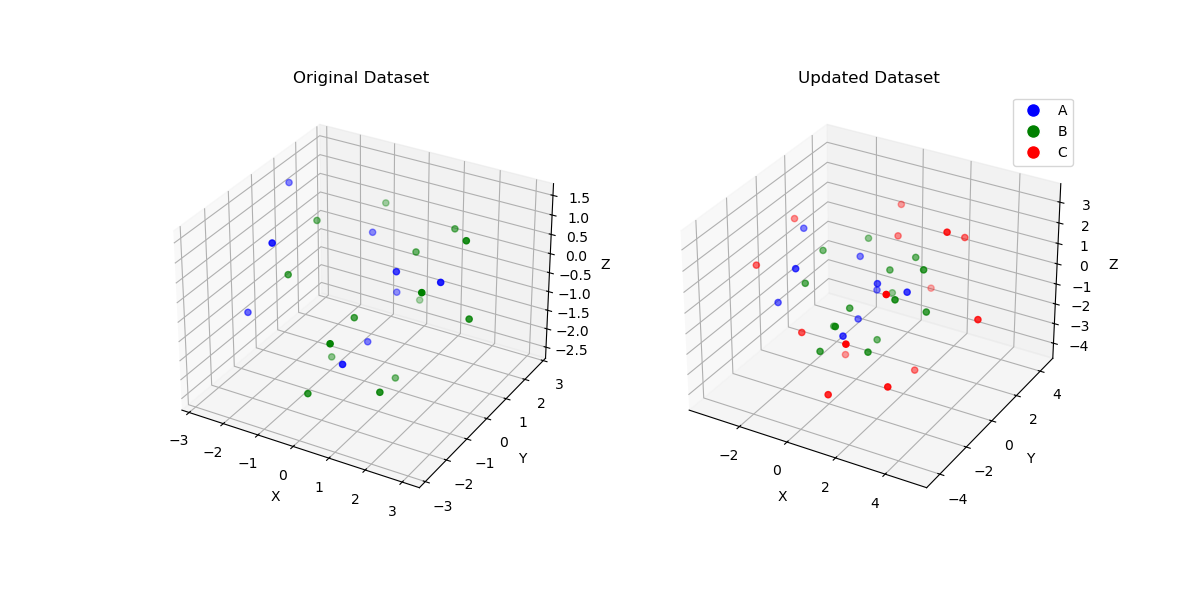
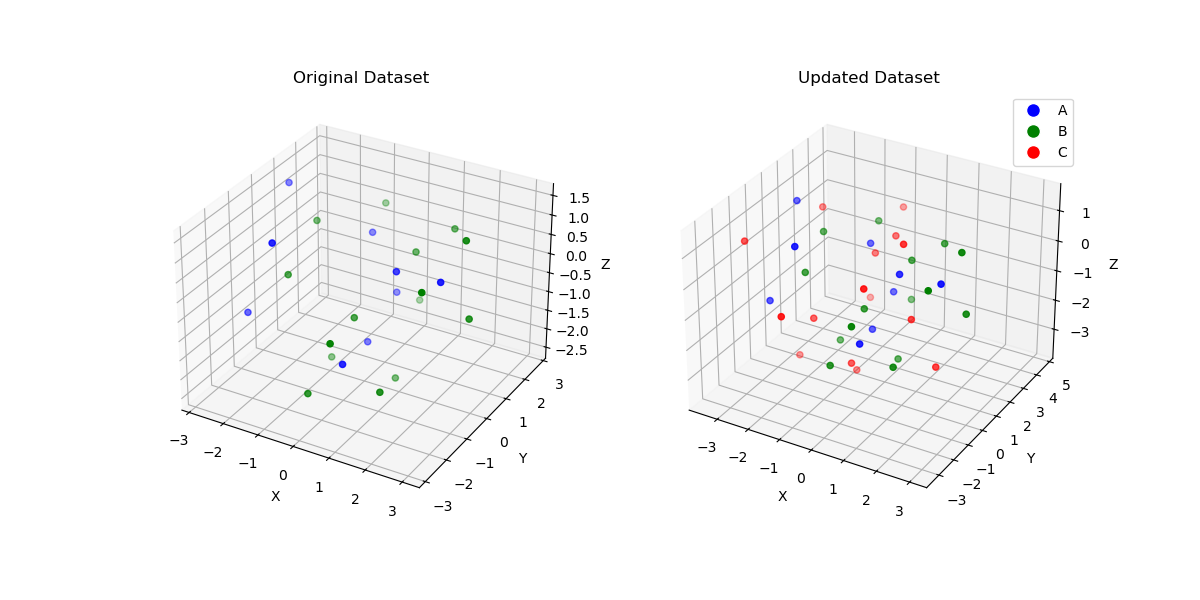
reverted weight function back to original polynomial decay

diff --git a/script.py b/script.py
@@ -1,3 +1,4 @@
+
 import numpy as np
 import pandas as pd
 from sklearn.decomposition import PCA
@@ -8,7 +9,43 @@ import matplotlib.pyplot as plt
 # Configure logging
 logging.basicConfig(level=logging.INFO, format='%(asctime)s - %(levelname)s - %(message)s')
 
-def add_offset_points(df, offset_magnitude, point_cols=['x', 'y', 'z'], initial_label='B', offset_label='C'):
+
+def cutoff_function(alpha, steps, n_degree=3):
+    """
+    Generates a cutoff function that smoothly transitions from `alpha` to `0` in `steps` using
+    a polynomial of degree `n_degree`.
+
+    Parameters:
+    ----------
+    alpha : float
+        The starting value of the function.
+    steps : int
+        The number of steps (or samples) over which the transition occurs.
+    n_degree : int, optional (default=3)
+        The degree of the polynomial used for the cutoff (e.g., 1 for linear, 2 for quadratic).
+
+    Returns:
+    -------
+    np.ndarray
+        A 1D array of `steps` values representing the cutoff function.
+
+    Raises:
+    ------
+    ValueError
+        If `steps` is less than or equal to 0, or if `alpha` is negative.
+    """
+    if steps <= 0:
+        raise ValueError("Parameter 'steps' must be greater than 0.")
+    if alpha < 0:
+        raise ValueError("Parameter 'alpha' must be non-negative.")
+    
+    # Create a linear space from 0 to 1
+    x = np.linspace(0, 1, steps)
+    # Compute the cutoff values using the polynomial decay formula
+    return alpha * (1 - x**n_degree)
+
+
+def add_offset_points(df, offset_magnitude, point_cols=['x', 'y', 'z'], initial_label='B', offset_label='C', alpha=0.5):
     """
     Adds offset points to a DataFrame based on points with a specific initial label, creating new points 
     at a fixed distance and in a direction pointing "outward" from the point cloud.
@@ -30,6 +67,9 @@ def add_offset_points(df, offset_magnitude, point_cols=['x', 'y', 'z'], initial_
 
     offset_label : str, optional (default='C')
         The label assigned to the newly generated offset points.
+
+    alpha : float, optional (default=0.5)
+        The starting weight for the cutoff function, determining the emphasis of outward directionality.
 
     Returns:
     -------
@@ -60,7 +100,7 @@ def add_offset_points(df, offset_magnitude, point_cols=['x', 'y', 'z'], initial_
     if 'label' not in df.columns:
         raise KeyError("The DataFrame must contain a 'label' column.")
 
-    logging.info(f"Starting add_offset_points with offset_magnitude={offset_magnitude}")
+    logging.info(f"Starting add_offset_points with offset_magnitude={offset_magnitude}, alpha={alpha}")
 
     # Drop missing values 
     df = df.dropna()
@@ -84,7 +124,7 @@ def add_offset_points(df, offset_magnitude, point_cols=['x', 'y', 'z'], initial_
             outward_vector /= np.linalg.norm(outward_vector)  # Normalize to unit vector
 
             # Generate weights for the principal axes
-            weights = pca.explained_variance_
+            weights = cutoff_function(alpha=alpha, steps=len(point_cols), n_degree=3)
             # Compute the offset direction as a weighted sum of the outward vector and principal axes
             direction = outward_vector + np.dot(weights, principal_axes)
             direction /= np.linalg.norm(direction)  # Normalize again
@@ -158,6 +198,9 @@ def main():
     -d, --offset-magnitude : float (required)
         The magnitude of the offset to apply.
 
+    -a, --alpha : float (default=0.5)
+        The alpha value for the cutoff function.
+
     --point-cols : list of str (default=['x', 'y', 'z'])
         List of column names representing the 3D coordinates.
 
@@ -179,6 +222,7 @@ def main():
     parser.add_argument("-i", "--input", default='cdd.txt', help="Path to the input text file.")
     parser.add_argument("-o", "--output", default="out.txt", help="Path to the output text file.")
     parser.add_argument("-d", "--offset-magnitude", type=float, default=2.0, help="Magnitude of the offset.")
+    parser.add_argument("-a", "--alpha", type=float, default=0.5, help="Alpha value for the cutoff function.")
     parser.add_argument("--point-cols", nargs="+", default=["x", "y", "z"], help="List of coordinate column names.")
     parser.add_argument("-l", "--label", default="B", help="Label of points to offset.")
     parser.add_argument("--offset-label", default="C", help="Label for the offset points.")
@@ -202,7 +246,8 @@ def main():
             offset_magnitude=args.offset_magnitude,
             point_cols=args.point_cols,
             initial_label=args.label,
-            offset_label=args.offset_label
+            offset_label=args.offset_label,
+            alpha=args.alpha,
         )
     except Exception as e:
         logging.error(f"Error processing offset points: {e}")
@@ -224,5 +269,3 @@ def main():
 
 if __name__ == "__main__":
     main()
-
-# %%
